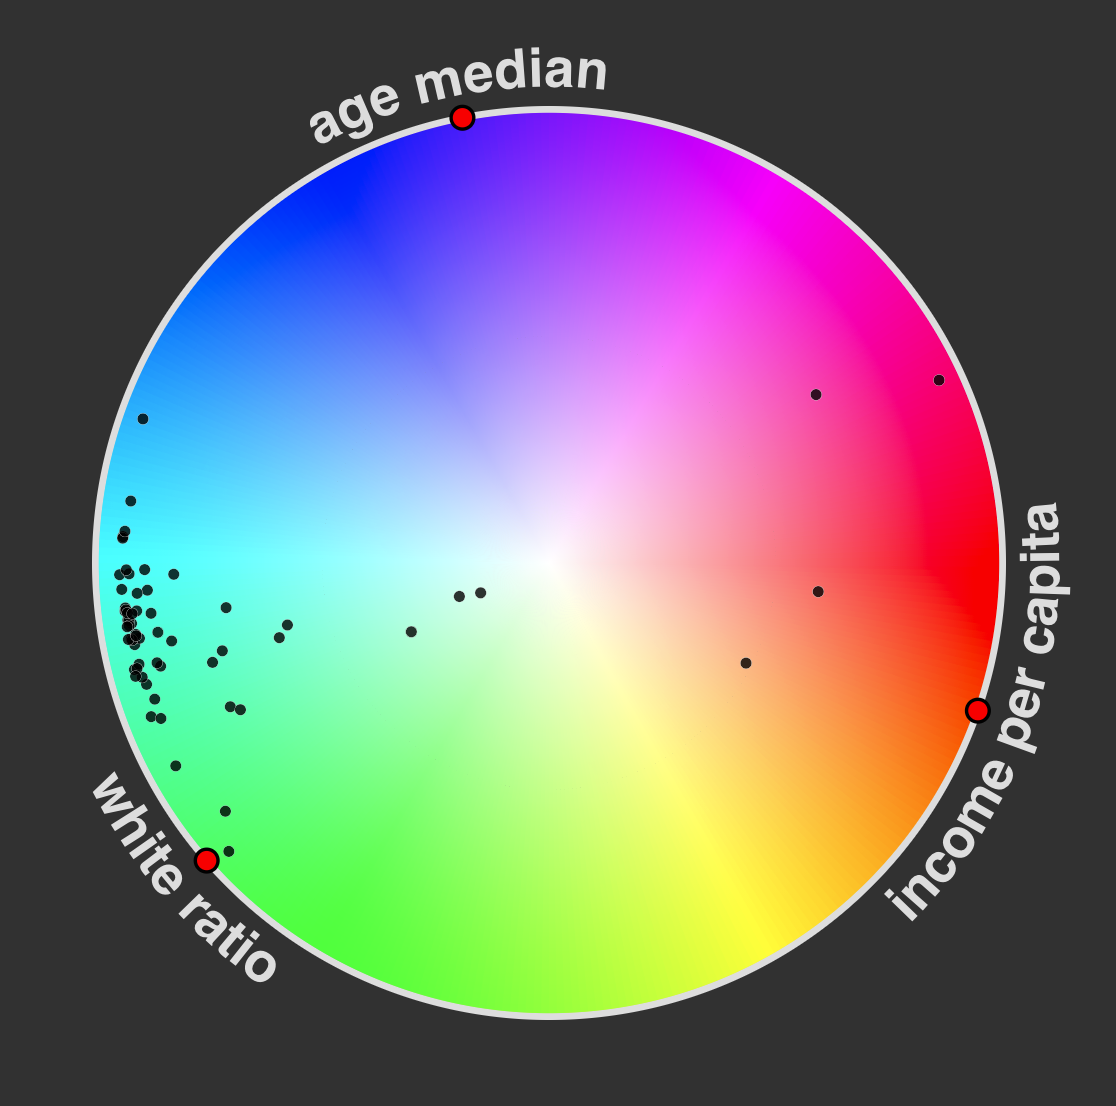
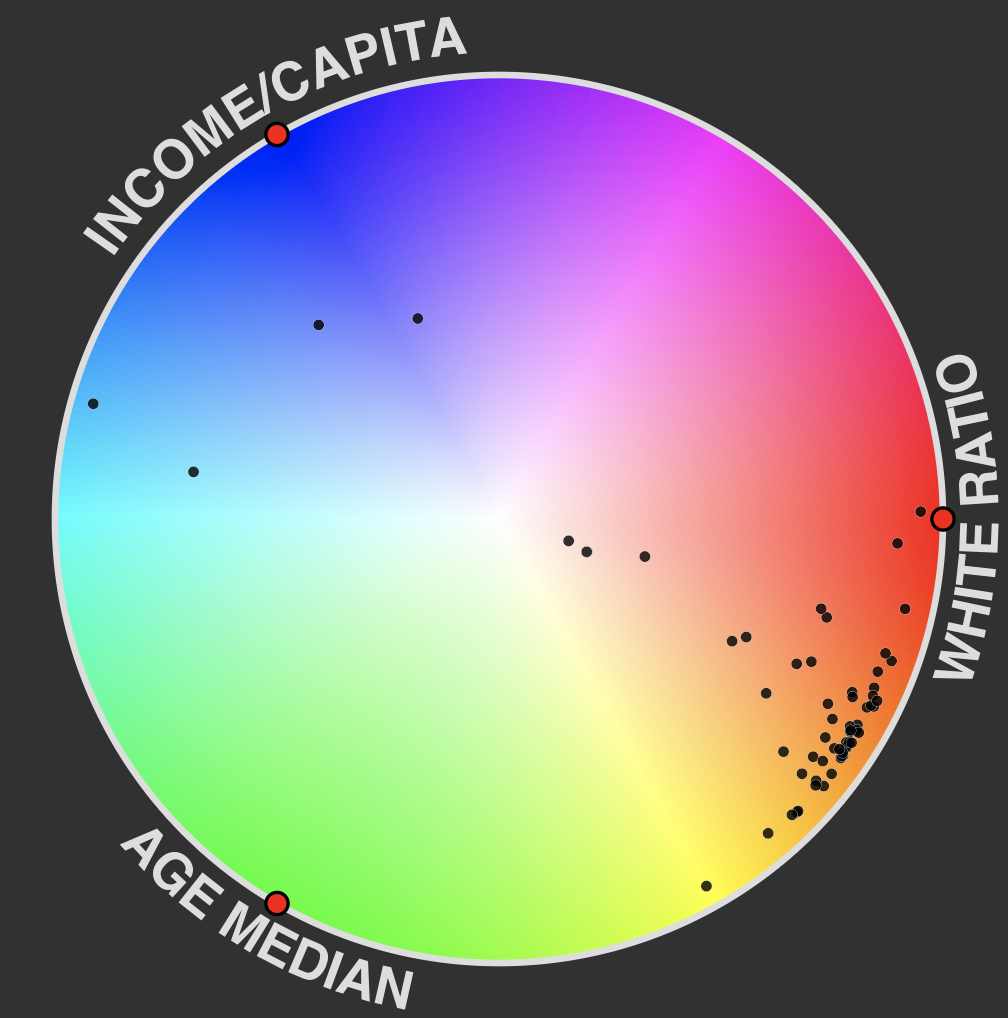
added surveys

diff --git a/src/SurveyPages/RadvizDemographic.js b/src/SurveyPages/RadvizDemographic.js
@@ -5,20 +5,22 @@ import axios from 'axios';
 import { Radviz } from 'react-d3-radviz';
 import RawPositioning from './RawPositioningDynamicLabels';
 import { StaticMap } from 'react-map-gl';
+import { useParams } from 'react-router-dom';
 
 let rad2deg = rad => rad * 180 / Math.PI;
 
 export default function RadvizDemographic() {
 
+	const { showControls } = useParams();
 	const [rawData, setRawData] = useState([])
 	const [geoJsonData, setGeoJsonData] = useState({})
 	const [data, setData] = useState([]);
 	const [countyColorMap, setCountyColorMap] = useState({});
 	const offset = 360 * Math.random()
 	const [labelAngles, setLabelAngles] = useState({
-		"white_ratio": Math.round(offset % 360),
-		"age_median": Math.round(offset + 120) % 360,
-		"income_per_capita": Math.round(offset + 240) % 360
+		"white_ratio": 0,
+		"age_median": 120,
+		"income_per_capita":240,
 	})
 
 	let labelMapping = {
@@ -116,34 +118,39 @@ export default function RadvizDemographic() {
 			<div style={{ width: '30%', height: '100%', position: 'fixed', padding: '5px' }}>
 				<div id='sidebar'>
 					{useMemo(() => <Radviz points={data.points} labels={data.labels} />, [data])}
-					<div>
-						{Object.keys(labelAngles).map(d =>
-							<div className="d-flex justify-content-center my-4 control-container">
-								<div style={{ width: '85%' }}>
-									<div className='d-flex align-items-center justify-content-between'>
-										<span className='control-labels'>{(d.replaceAll('_', ' ')).toLocaleUpperCase()}</span>
-										<span for={d}
-											className='control-value'
-											style={{ width: '10px' }}>{labelAngles[d]}º</span>
-									</div>
-									<input type="range" className="custom-range" min="0" max="360"
-										id={d}
-										value={labelAngles[d]}
-										onChange={(e) => {
-											let updatedState = { ...labelAngles, [d]: e.target.value }
-											setLabelAngles(updatedState)
-										}} />
-									<div className="ticks">
-										<span class="tick">0º</span>
-										<span class="tick">90º</span>
-										<span class="tick">180º</span>
-										<span class="tick">270º</span>
-										<span class="tick">360º</span>
+
+					{showControls == 'show' ?
+						<div>
+							{Object.keys(labelAngles).map(d =>
+								<div className="d-flex justify-content-center my-4 control-container">
+									<div style={{ width: '85%' }}>
+										<div className='d-flex align-items-center justify-content-between'>
+											<span className='control-labels'>{(d.replaceAll('_', ' ')).toLocaleUpperCase()}</span>
+											<span for={d}
+												className='control-value'
+												style={{ width: '10px' }}>{labelAngles[d]}º</span>
+										</div>
+										<input type="range" className="custom-range" min="0" max="360"
+											id={d}
+											value={labelAngles[d]}
+											onChange={(e) => {
+												let updatedState = { ...labelAngles, [d]: e.target.value }
+												setLabelAngles(updatedState)
+											}} />
+										<div className="ticks">
+											<span class="tick">0º</span>
+											<span class="tick">90º</span>
+											<span class="tick">180º</span>
+											<span class="tick">270º</span>
+											<span class="tick">360º</span>
+										</div>
 									</div>
 								</div>
-							</div>
-						)}
-					</div>
+							)}
+						</div>
+						:
+						<></>
+					}
 				</div>
 			</div>
 			<div className="map-container" >

diff --git a/src/SurveyInfra/SurveyPage.js b/src/SurveyInfra/SurveyPage.js
@@ -6,18 +6,18 @@ const configuration = [
         imgSrc: './images/radviz.png',
         text: 'Radviz',
         linkTo: '/radviz',
-        googleForm: '/'
+        googleForm: 'https://docs.google.com/forms/d/e/1FAIpQLSdhcmQ7fwtcSZoP0nq21dfkgHFAQUb7nLqvLTsl4lbC-lgTPQ/viewform?usp=sf_link'
     },
     {
         imgSrc: './images/sradviz.png',
         text: 'S-Radviz',
         linkTo: '/sradviz',
-        googleForm: '/'
+        googleForm: 'https://docs.google.com/forms/d/e/1FAIpQLScFvSh9ce5AZUQj5YJBzQlmeQa7nHMfVgcTTCKS258NDGA2Pg/viewform?usp=sf_link'
     },
     {
         imgSrc: './images/controls.png',
         text: 'Controls',
-        linkTo: '/control',
+        linkTo: '/sradviz/show',
         googleForm: '/'
     }
 ]
@@ -80,10 +80,11 @@ export default function SurveyPage() {
                             <div
                                 style={{ border: 'solid', borderColor: 'blue', height: '10%' }}
                             >
-                                <Link
+                                <a
                                     className='take-survey'
-                                    to={value['googleForm']}
-                                >Google Form</Link>
+                                    href={value['googleForm']}
+                                    target="_blank"
+                                >Google Form</a>
                             </div>
                         </div>
                     </div>

diff --git a/src/App.js b/src/App.js
@@ -8,18 +8,17 @@ import WelcomePage from './SurveyInfra/WelcomePage.js';
 import HomePage from './SurveyInfra/HomePage.js';
 import SurveyPage from './SurveyInfra/SurveyPage.js';
 
-
 export default function App() {
 
     return (
         <Router>
             <Switch>
-                <Route exact path='/' component={HomePage}/>
-                <ProtectedRoute path='/survey' component={SurveyPage}/>
+                <Route exact path='/' component={HomePage} />
                 <Route exact path='/welcome' component={WelcomePage} />
-                <Route path='/radviz' component={RadvizDemographic} />
-                <Route path='/sradviz/:showControls?' component={SRadvizDemographic} />
-                <Route path='/login' component={Login}/>
+                <ProtectedRoute path='/survey' component={SurveyPage} />
+                <Route path='/radviz/:showControls?' component={RadvizDemographic} />
+                <ProtectedRoute path='/sradviz/:showControls?' component={SRadvizDemographic} />
+                <Route path='/login' component={Login} />
             </Switch>
         </Router>
     )

diff --git a/src/SurveyPages/SRadvizDemographic.js b/src/SurveyPages/SRadvizDemographic.js
@@ -116,7 +116,7 @@ export default function SRadvizDemographic() {
 			<div style={{ width: '30%', height: '100%', position: 'fixed', padding: '5px' }}>
 				<div id='sidebar'>
 					{useMemo(() => <Radviz points={data.points} labels={data.labels} std={data.std} std2={data.std2} std3={data.std3} shade={{ 'z2one': z2one, 'one2two': one2two, 'two2three': two2three, 'three2inf': three2inf }} />, [data])}
-					{showControls == 'true' ?
+					{showControls == 'show' ?
 						<div>
 							<div className='d-flex justify-content-around align-items-center' style={{ width: '80%', marginLeft: '50px', marginRight: '50px' }}>
 								<div>
@@ -173,7 +173,7 @@ export default function SRadvizDemographic() {
 							)}
 						</div>
 						:
-						<></>
+						<div>No Control</div>
 					}
 				</div>
 			</div>

diff --git a/src/SurveyInfra/HomePage.js b/src/SurveyInfra/HomePage.js
@@ -25,7 +25,7 @@ export default function HomePage() {
                         style={{ border: 'solid', borderColor: 'blue', height: '22.5%' }}
                     >
                         <Link
-                            to='/survey'
+                            to='/radviz/show'
                             className='take-survey'
                         >
                             Demo

diff --git a/src/index.js b/src/index.js
@@ -2,6 +2,10 @@ import React from 'react';
 import ReactDOM from 'react-dom';
 import './index.css';
 import App from './App.js';
+import axios from 'axios';
+
+axios.defaults.baseURL = '/';
+
 ReactDOM.render(
   <React.StrictMode>
     <App />
